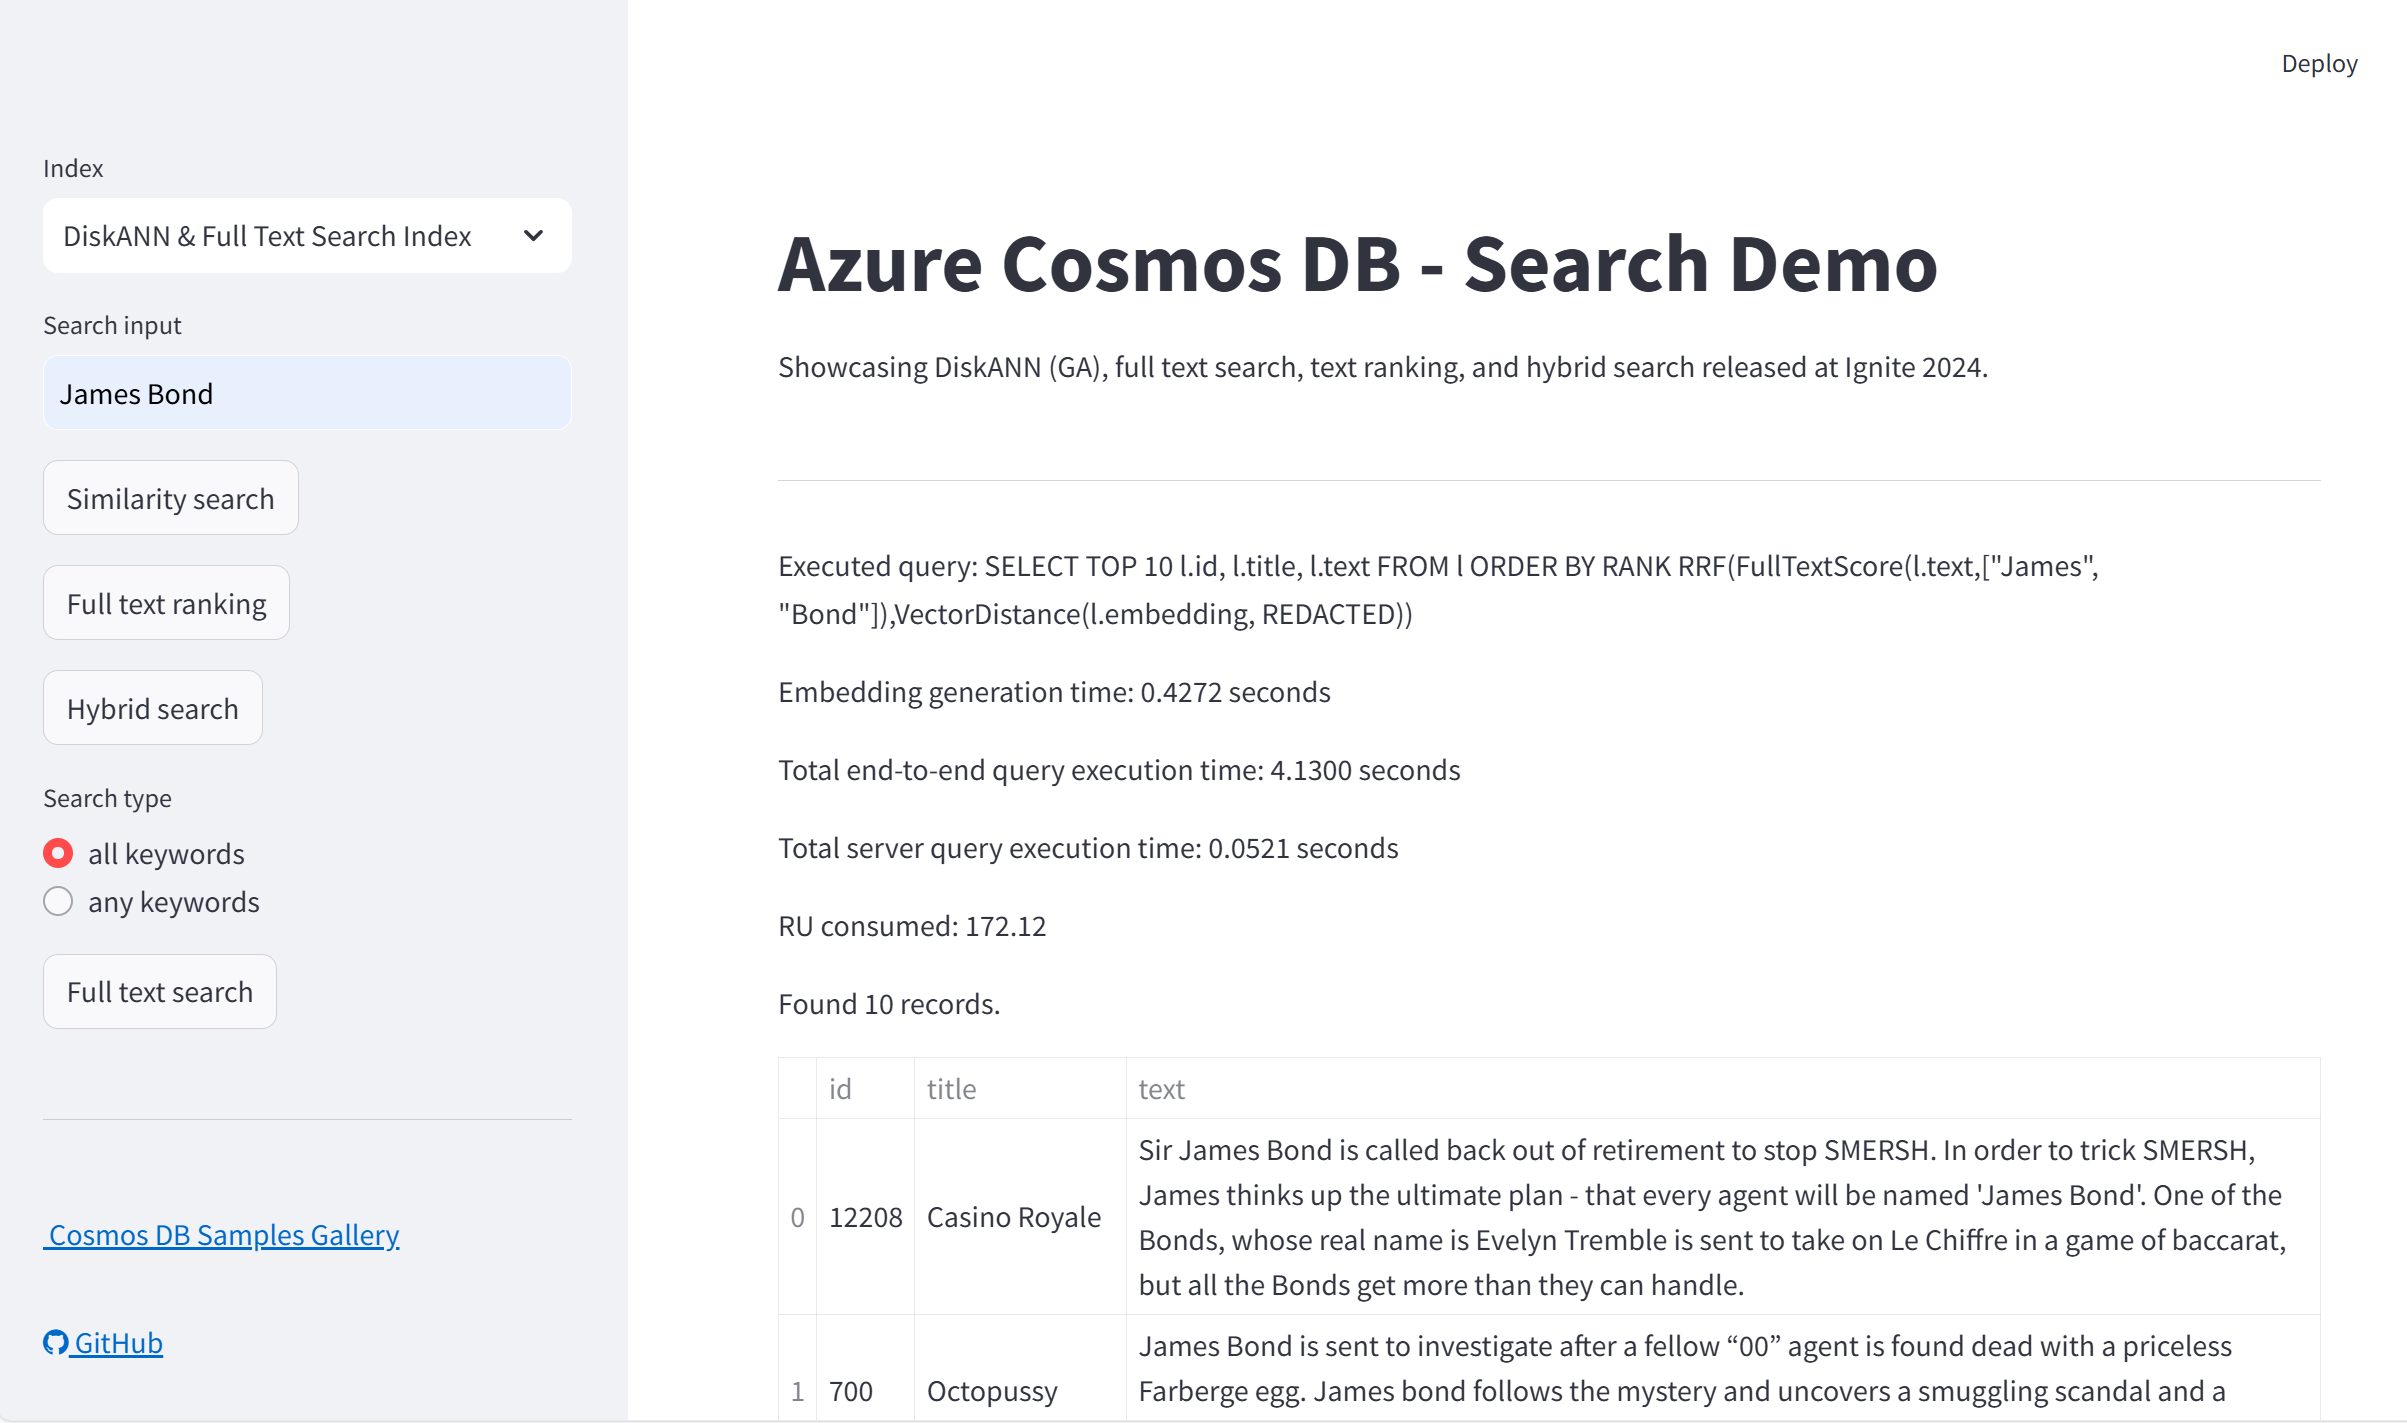
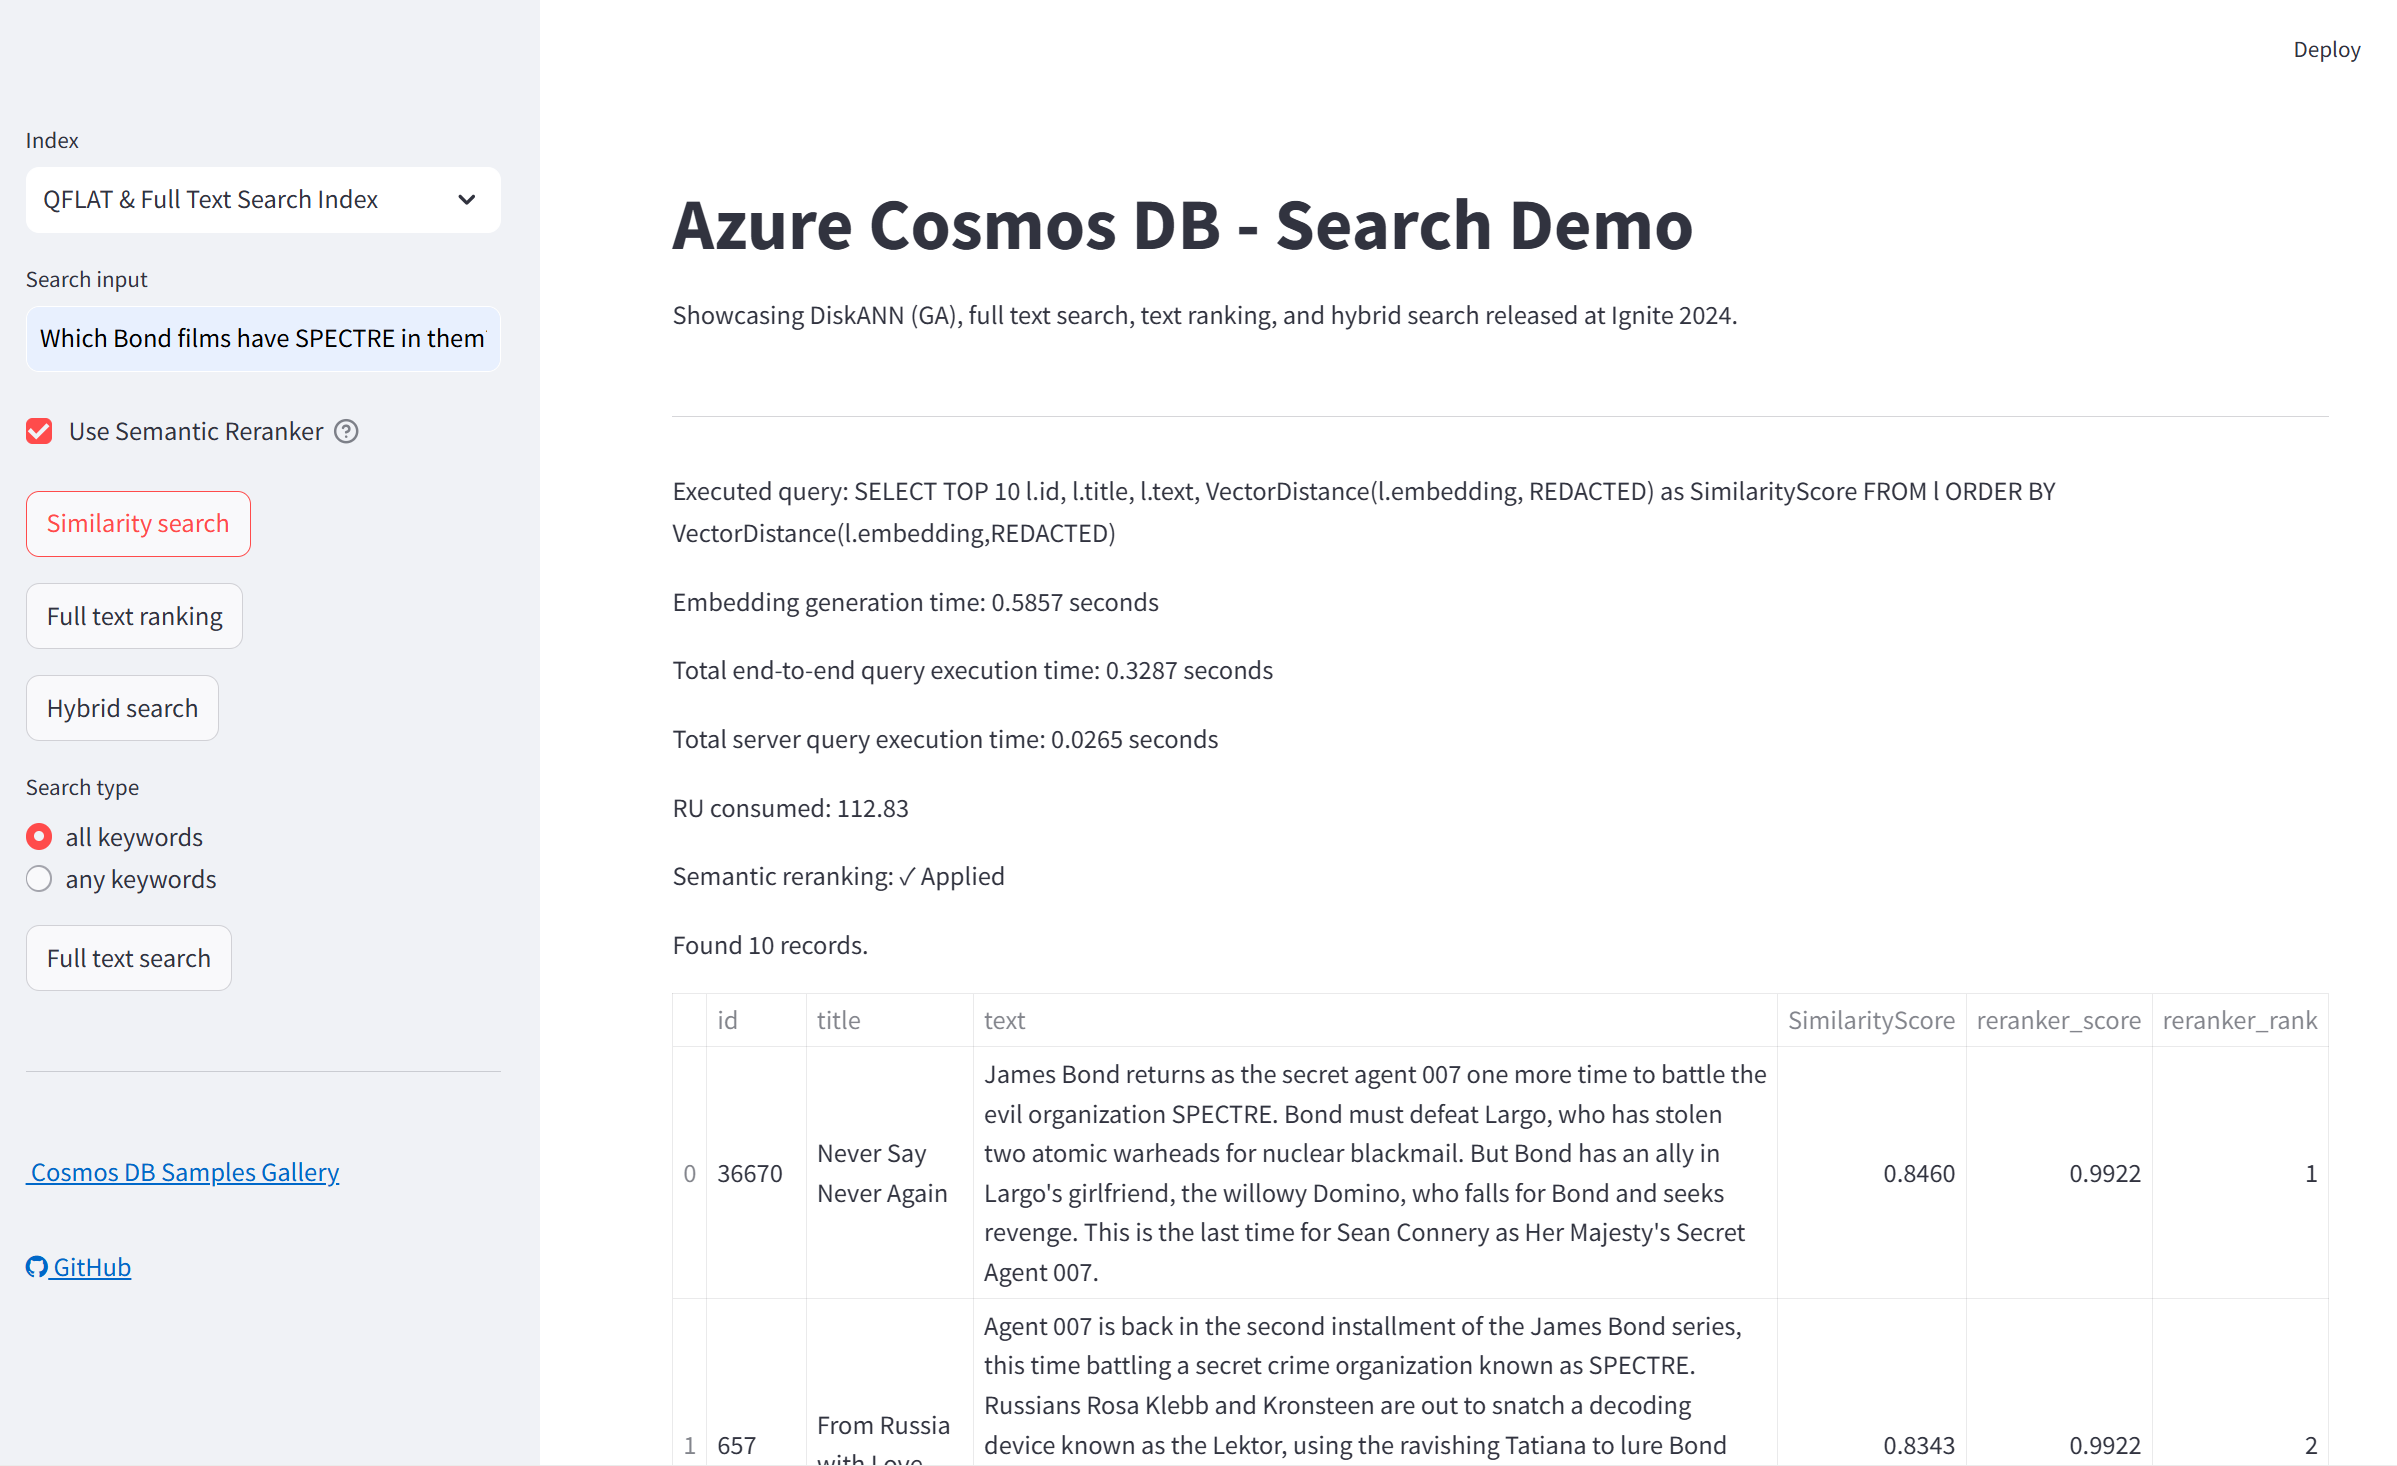
Add flexible Cosmos DB authentication with DefaultAzureCredential
🔐 Authentication enhancements:
- Support both key-based and identity-based authentication for Cosmos DB
- Use DefaultAzureCredential when COSMOS_FABCON_KEY is omitted/empty
- Fallback to key-based authentication when key is provided
- Enhanced error messages with specific guidance for each authentication method
- Added success indicators showing which authentication method is active

📝 Configuration updates:
- Update .env.template to make COSMOS_FABCON_KEY optional
- Add comprehensive authentication documentation in README
- Update environment variables reference table with new optional key indicator
- Document both authentication modes with security recommendations

🎯 Benefits:
- More secure identity-based authentication in production (no secrets)
- Seamless local development with Azure CLI
- Automatic Managed Identity support in Azure environments
- Backward compatibility with existing key-based configurations
- Clear UI feedback on authentication status and troubleshooting

diff --git a/cosmos-search-demo/src/app/cosmos-app.py b/cosmos-search-demo/src/app/cosmos-app.py
@@ -33,22 +33,47 @@ if "cosmos_client" not in st.session_state:
     endpoint = os.getenv("COSMOS_FABCON_URI")
     key = os.getenv("COSMOS_FABCON_KEY")
     
-    # Check if credentials are properly configured
-    if not endpoint or endpoint == "your_cosmos_db_uri_here" or not key or key == "your_cosmos_db_key_here":
-        st.error("❌ Cosmos DB credentials not configured. Please update the .env file with your actual Cosmos DB URI and Key.")
-        st.info("💡 The app will work for reranker testing, but search functionality requires Cosmos DB credentials.")
+    # Check if endpoint is configured
+    if not endpoint or endpoint == "your_cosmos_db_uri_here":
+        st.error("❌ Cosmos DB endpoint not configured. Please update the .env file with your actual Cosmos DB URI.")
+        st.info("💡 The app will work for reranker testing, but search functionality requires Cosmos DB endpoint.")
         st.session_state.cosmos_client = None
         st.session_state.cosmos_database = None
         st.session_state.cosmos_container_qflat = None
         st.session_state.cosmos_container_diskann = None
     else:
         try:
-            st.session_state.cosmos_client = CosmosClient(endpoint, credential=key)
+            # Determine authentication method
+            if key and key != "your_cosmos_db_key_here":
+                # Use key-based authentication
+                st.info("🔑 Using key-based authentication for Cosmos DB")
+                credential = key
+            else:
+                # Use DefaultAzureCredential for identity-based authentication
+                st.info("🆔 Using DefaultAzureCredential for Cosmos DB (Managed Identity/Azure CLI)")
+                credential = DefaultAzureCredential()
+            
+            st.session_state.cosmos_client = CosmosClient(endpoint, credential=credential)
             database_name = 'fabcon25demo'  # Replace with your database name
             st.session_state.cosmos_database = st.session_state.cosmos_client.create_database_if_not_exists(database_name)
+            
+            # Show success message with authentication method
+            auth_method = "Key-based" if isinstance(credential, str) else "Identity-based"
+            st.success(f"✅ Connected to Cosmos DB using {auth_method} authentication")
+            
         except Exception as e:
             st.error(f"Failed to connect to Cosmos DB: {str(e)}")
-            st.info("Please check your COSMOS_DB_ENDPOINT and COSMOS_DB_KEY in the .env file")
+            
+            # Provide specific guidance based on authentication method
+            if key and key != "your_cosmos_db_key_here":
+                st.info("Please check your COSMOS_FABCON_URI and COSMOS_FABCON_KEY in the .env file")
+            else:
+                st.info("💡 Identity-based authentication failed. This could be because:")
+                st.info("   • Azure CLI is not logged in (run 'az login')")
+                st.info("   • Managed Identity is not configured properly")
+                st.info("   • Your account doesn't have access to the Cosmos DB resource")
+                st.info("   • Try providing COSMOS_FABCON_KEY in .env for key-based authentication")
+            
             st.session_state.cosmos_client = None
             st.session_state.cosmos_database = None
             st.session_state.cosmos_container_qflat = None

diff --git a/cosmos-search-demo/README.md b/cosmos-search-demo/README.md
@@ -1,6 +1,6 @@
 # FABCON Europe 2025 Search Demo with Azure Cosmos DB + Semantic Reranking
 
-This repository contains a Python Streamlit application that demonstrates advanced search capabilities using Azure Cosmos DB, OpenAI embeddings, and Azure's semantic reranker service. The application showcases vector search, full text search, text ranking, and hybrid search with intelligent semantic reranking to improve result relevance.
+This repository contains a Python Streamlit application that demonstrates advanced search capabilities using Azure Cosmos DB, OpenAI embeddings, and semantic reranking. The application showcases vector search, full text search, text ranking, and hybrid search with intelligent semantic reranking to improve result relevance.
 
 ![screenshot](media/screen-shot.png)
 
@@ -12,7 +12,7 @@ This repository contains a Python Streamlit application that demonstrates advanc
   - 🔄 **Hybrid search** combining semantic and full text search
   - 📊 **Text ranking** for enhanced result ordering
 - **🎯 Semantic Reranking** (NEW):
-  - Integration with Azure's semantic reranker service
+  - Integration with semantic reranker (private preview - public and GA SDK surface area will change)
   - Interactive UI toggle to enable/disable reranking
   - Preserves original metadata while improving result relevance
   - Smart authentication handling for local and Azure environments
@@ -28,9 +28,9 @@ This repository contains a Python Streamlit application that demonstrates advanc
 
 ## Prerequisites
 
-- [Azure Cosmos DB](https://azure.microsoft.com/services/cosmos-db/) account with NoSQL API
+- [Azure Cosmos DB](https://azure.microsoft.com/services/cosmos-db/) account with NoSQL API with vector search and full text search enabled.
 - [Azure OpenAI](https://azure.microsoft.com/products/ai-services/openai-service) account
-- **Azure semantic reranker service** (for enhanced result ranking)
+- **Whitelisted access to a reranker account** (for enhanced result ranking - this will be transparently created when semantic reranker is public/GA). Please reach out to Cosmos DB team for access. 
 - [Azure CLI](https://docs.microsoft.com/cli/azure/install-azure-cli) (for local reranker authentication)
 
 ## 🚀 Quick Start
@@ -55,7 +55,7 @@ Edit `src/app/.env` with your actual Azure service credentials:
 ```env
 # Azure Cosmos DB Configuration
 COSMOS_FABCON_URI=https://your-cosmos-db.documents.azure.com:443/
-COSMOS_FABCON_KEY=your_cosmos_db_key_here
+# COSMOS_FABCON_KEY=your_cosmos_db_key_here  # Optional: Leave empty for identity-based auth
 
 # Azure OpenAI Configuration
 AZURE_OPENAI_API_KEY=your_openai_api_key_here
@@ -67,7 +67,22 @@ AZURE_CLIENT_ID=your_client_id_here
 RERANKER_ENDPOINT=https://your-reranker.dbinference.azure.com/inference/semanticReranking
 ```
 
-### 3. Install Dependencies
+### 3. Choose Authentication Method
+
+The app supports two authentication methods for Cosmos DB:
+
+**🔑 Key-based Authentication (Traditional)**:
+- Provide `COSMOS_FABCON_KEY` in your .env file
+- Uses the master key for database access
+- Works in any environment
+
+**🆔 Identity-based Authentication (Recommended)**:
+- Leave `COSMOS_FABCON_KEY` empty or commented out
+- Uses `DefaultAzureCredential` (Managed Identity in Azure, Azure CLI locally)
+- More secure, no secrets in configuration
+- Requires appropriate RBAC permissions on Cosmos DB
+
+### 4. Install Dependencies
 
 ```sh
 pip install -r src/app/requirements.txt
@@ -132,16 +147,23 @@ cosmos-search-demo/
 | Variable | Description | Required |
 |----------|-------------|----------|
 | `COSMOS_FABCON_URI` | Azure Cosmos DB endpoint | ✅ |
-| `COSMOS_FABCON_KEY` | Azure Cosmos DB key | ✅ |
+| `COSMOS_FABCON_KEY` | Azure Cosmos DB key | 🔑 |
 | `AZURE_OPENAI_API_KEY` | Azure OpenAI API key | ✅ |
 | `OPENAI_ENDPOINT` | Azure OpenAI endpoint | ✅ |
 | `AZURE_TENANT_ID` | Azure tenant ID for reranker | 🎯 |
 | `AZURE_CLIENT_ID` | Azure client ID for reranker | 🎯 |
 | `RERANKER_ENDPOINT` | Semantic reranker service endpoint | 🎯 |
 
+*🔑 = Optional for Cosmos DB (uses DefaultAzureCredential if not provided)*
 *🎯 = Required for semantic reranking feature*
 
 ### Authentication Modes:
+
+**Cosmos DB Authentication:**
+- **Key-based**: Uses master key when `COSMOS_FABCON_KEY` is provided
+- **Identity-based**: Uses `DefaultAzureCredential` when key is omitted (Managed Identity in Azure, Azure CLI locally)
+
+**Reranker Authentication:**
 - **Local Development**: Uses Azure CLI authentication (`AzureCliCredential`)
 - **Azure Deployment**: Uses Managed Identity authentication (`ManagedIdentityCredential`)
 - **Automatic Detection**: Switches based on environment (MSI_ENDPOINT presence)
